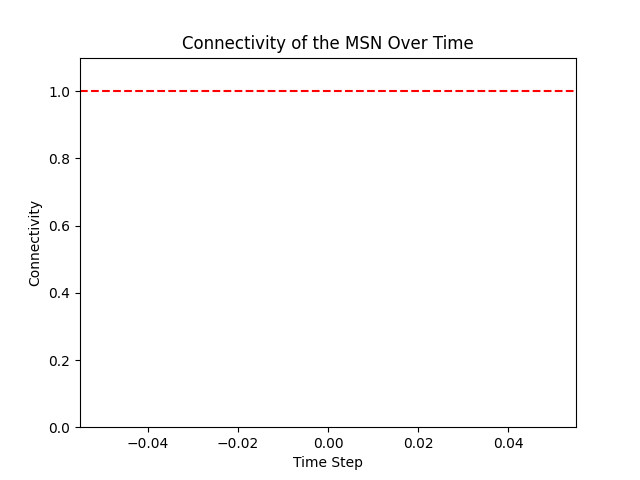
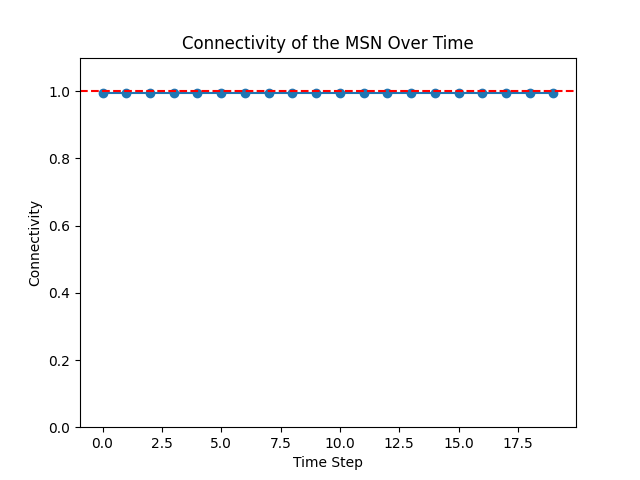
idk

diff --git a/p2/case1/case1.py b/p2/case1/case1.py
@@ -10,12 +10,10 @@ import algorithmsupplements as AS
 
 #glhf algorithm 3 has a similar format to algorithm2 but it has some differences
 
-#uialpha = c1alpha * (sum (sigma_norm(qj - qi))ni,j ) + c2alpha * (sum (aij(q)(pj-pi)))
 
 #uibeta = c1beta * (sum (psipeta * (sigmanorm(q^i,k - qi))n^i,k))
 obstacles = [((100, 25), 15), ((150, 30), 25), ((200, 25), 30)]
 g_target = [250, 25]
-
 
 n = 150
 m = 2
@@ -30,7 +28,7 @@ c2_alpha = 2 * np.sqrt(c1_alpha)
 c1_mt = 1.1
 c2_mt = 2 * np.sqrt(c1_mt)
 
-def algo_2_update_locations(nodes, g_agentx, g_agenty, g_agentvel):
+def algo_2_update_locations(nodes, g_agentx, g_agenty, g_agentvel = [0,0]):
     accels = []
     for i_agent in nodes:
         g_term = np.zeros(2)
@@ -47,6 +45,8 @@ def algo_2_update_locations(nodes, g_agentx, g_agenty, g_agentvel):
         nf_term_c = c2_mt * np.array([i_agent.velocity[0] - g_agentvel[0], i_agent.velocity[1] - g_agentvel[1]]) 
         nf_term = nf_term_g - nf_term_c
         
+        #uialpha = c1alpha * (sum (sigma_norm(qj - qi))ni,j ) + c2alpha * (sum (aij(q)(pj-pi)))
+        
         ui = ((g_term * c1_alpha) + (c_term * c2_alpha) - nf_term) * delta_t
         accels.append(ui)
     for node, accel in zip(nodes, accels):
@@ -60,9 +60,9 @@ def update_neighbors(nodes):
             if node != potential_neighbor:
                 node.link_node(potential_neighbor, r)      
 
-def plot_network(nodes, iteration):
-    plt.figure()
-    ax = plt.gca()
+def plot_network(nodes, iteration, figure):
+    figure.clf()
+    ax = figure.gca()
     for node in nodes:
         ax.plot(node.x, node.y, 'b>') 
         for neighbor in node.neighbors:
@@ -72,12 +72,11 @@ def plot_network(nodes, iteration):
         obstacle = Circle((x, y), radius, color='r', fill=True)
         ax.add_patch(obstacle)
         
-    plt.xlim(-0, 300)
-    plt.ylim(-0, 300)
-    plt.title(f'Iteration {iteration}')
-    if iteration == 0 or iteration == 40 or iteration == 80 or iteration == 120 or iteration == 160 or iteration == 200:
-        plt.savefig(f'network_iteration_{iteration}.png', bbox_inches='tight')
-    plt.close()
+    ax.plot(g_target[0], g_target[1], 'ro')
+        
+    figure.suptitle(f'Iteration {iteration}')
+    if iteration == 0 or iteration == 5 or iteration == 10 or iteration == 15 or iteration == 20 or iteration == 200:
+        figure.savefig(f'network_iteration_{iteration}.png', bbox_inches='tight')
     
 def plot_velocity_values(nodes):
     plt.figure()
@@ -153,19 +152,12 @@ def center_of_mass(nodes):
         num_nodes = len(nodes)
         return [total_x / num_nodes, total_y / num_nodes]
     
-def plot_gamma_agent(node):
-    x_vals, y_vals = zip(*node.prev_pos)
-    plt.figure(figsize=(10, 5))
-    plt.plot(x_vals, y_vals, marker='o')
-    plt.title("Node's Sine Wave Trajectory")
-    plt.xlabel('X Position')
-    plt.ylabel('Y Position')
-    plt.grid(True)
-    plt.savefig("Gamma_Agent_Trajectory.png")
     
 def plot_COM(COM):
     x_vals, y_vals = zip(*COM)
     plt.figure(figsize=(10,5))
+    plt.plot()
+    plt.plot(g_target[0], g_target[1], marker='>', color='red')
     plt.plot(x_vals, y_vals, marker='o')
     plt.title("MSN's actual sine wave trajectory")
     plt.xlabel('X position')
@@ -173,31 +165,16 @@ def plot_COM(COM):
     plt.grid(True)
     plt.savefig("Center_of_Mass_Trajectory.png")
 
-def create_obstacles():
-    pass
-
-
-g_pos = []
 nodes = [SN.SensorNode(random.uniform(0, 70), random.uniform(0, 70), i) for i in range(n)]
-g_pos.append(center_of_mass(nodes))
-A = 5
-T = 100
-omega = (2 * np.pi) / T
-vx = 2
-steps = 201
-g_agent = SN.SensorNode(250, 25, 101)
 
-for iteration in range(5):
+figure = plt.figure(figsize=(10, 10))
+
+for iteration in range(20):
+    print(iteration)
     update_neighbors(nodes)
-    # g_pos.append(center_of_mass(nodes))
-    # g_agentx = g_agent.prev_pos[iteration][0]
-    # g_agenty = g_agent.prev_pos[iteration][1]
-    # g_agentvel = g_agent.prev_vel[iteration]
-    # algo_2_update_locations(nodes, g_agentx, g_agenty, g_agentvel)
-    plot_network(nodes, iteration)
+    algo_2_update_locations(nodes, g_target[0], g_target[1])
+    plot_network(nodes, iteration, figure)
 
 plot_velocity_values(nodes)
 plot_prev_positions_with_trajectory(nodes)
 check_and_plot_connectivity(nodes)
-plot_gamma_agent(g_agent)
-plot_COM(g_pos)

diff --git a/p2/case1/SensorNode.py b/p2/case1/SensorNode.py
@@ -7,6 +7,7 @@ class SensorNode:
         self.y = positiony
         self.velocity = [0,0]
         
+        self.beta_neighbors = []
         self.neighbors = []
         self.prev_pos = []
         self.prev_vel = []
